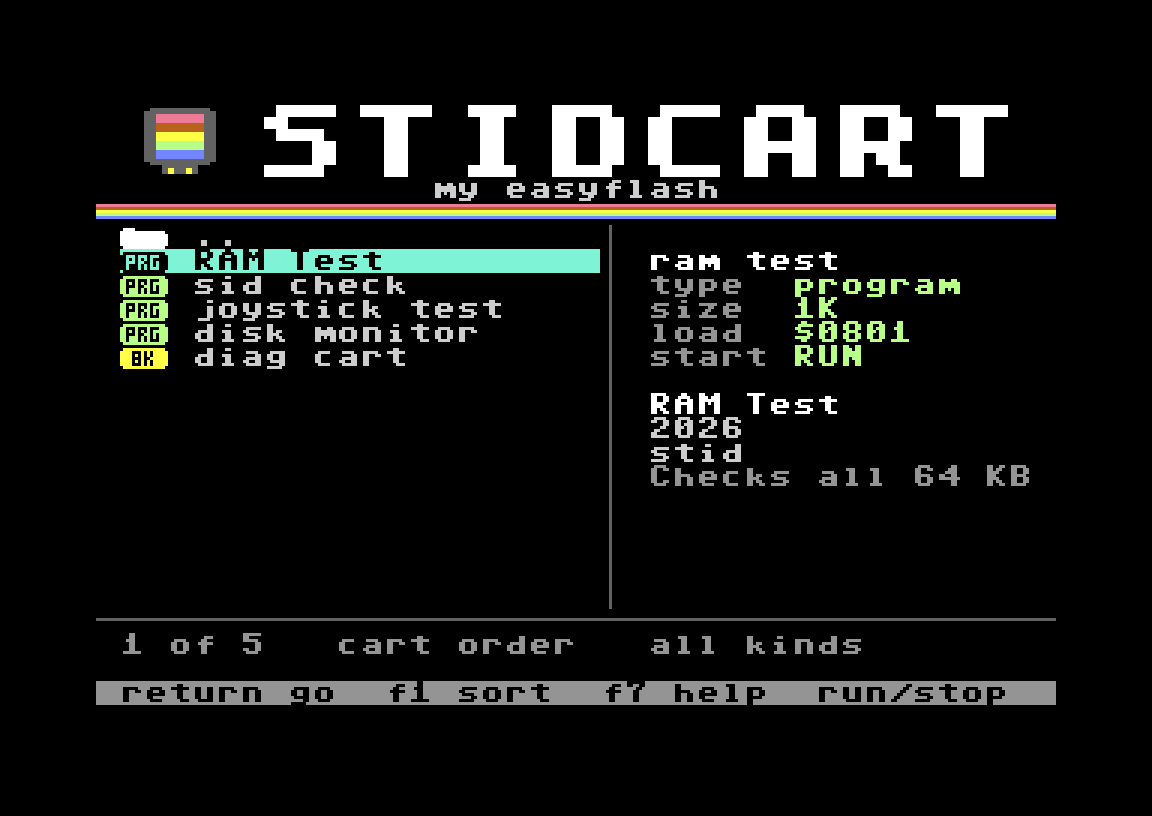
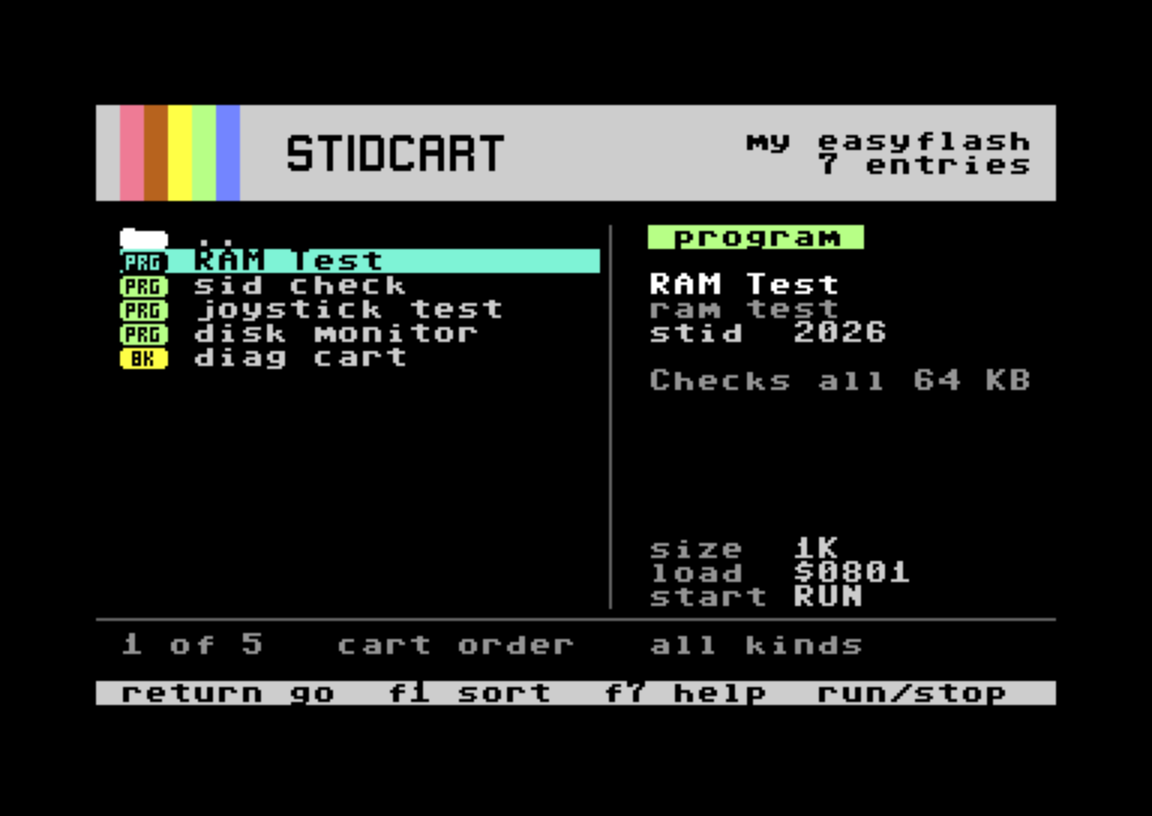
docs: the label in the guide, the menu README and SPEC; close menu-label
Claude-Session: https://claude.ai/code/session_01Hc37cV8Et6gAVUUH5CjV4g

diff --git a/crates/stidcart-cli/tests/menu_boot.rs b/crates/stidcart-cli/tests/menu_boot.rs
@@ -776,12 +776,12 @@ fn ac_101_filter_and_sort_combine() {
     assert_not_listed(&dumps[0], &["kiwi"], "F1, then an");
 }
 
-// --- the look: layout C (AC-104..AC-111, D-040, D-041) -----------------------------------------
+// --- the look (AC-104..AC-111, AC-210; D-040, D-041, D-069) ------------------------------------
 //
 // The menu draws from a RAM copy of the ROM's mixed-case set at $3800 that carries its own glyphs:
-// type badges, the rule, the scroll track and thumb, and the logo's quarter-block cells. Tests
-// find a glyph by its bitmap, so they hold the approved pixels (the "Stidcart Menu Layouts" mockup,
-// layout C) and never the code numbers. Colours are read from colour RAM and the VIC's registers,
+// type badges, the rule, the scroll track and thumb, and the wordmark's cells. Tests find a glyph
+// by its bitmap, so they hold the approved pixels (the "Stidcart Menu Layouts" mockup for the
+// badges, "Stidcart Menu Directions" for the wordmark) and never the code numbers. Colours are read from colour RAM and the VIC's registers,
 // low nybble only: VICE fills the high nybble from the bus.
 
 const COLOUR_RAM: (u16, u16) = (0xd800, 0xdbe7);

diff --git a/docs/lcd/SPEC.md b/docs/lcd/SPEC.md
@@ -103,7 +103,7 @@
 | Our menu starts a program whose bytes run into `$D000-$FFFF`: the part below `$D000` is copied as before, the rest by an 80-byte routine at `$0100-$014F` that reads each byte with `$01=$37` and writes it with `$01=$33`, so it lands in RAM under I/O and the KERNAL and the chips are not written; the NMI vector, `$01` and the bank are put back, then it starts by `RUN`, `SYS` or SHIFT+RETURN as any program. AC-127/AC-128 hold through it. Proven by VICE boots that read the RAM back with I/O and ROM banked out | AC-160..AC-162, AC-165 | D-056 (menu-highmem) |
 | Our menu reads the `STIDCART.META` entry once at boot, with interrupts masked, into `$4000-$7FFF` (interleaved or confined to either half; the last valid candidate wins; a missing, unknown-version, oversized or malformed one boots as a cart without metadata; records whose name doesn't match their slot are ignored). A titled entry shows its title in its row (cut to fit) and the title, year, author and note in the pane; A-Z sorts by what rows show. Grouped entries sit in folders: the top level lists a folder row per group with a visible entry (badge, name, count), in the cart's folder order, an empty folder showing no row, then the ungrouped entries; RETURN or fire opens one; DEL with no text or RUN/STOP goes back with it selected; filters, A-Z, paging, F5 and HOME/CLR act inside it, and row 23 counts the folder. Text typed at the top level lists matches from every folder flat, matching name or title. Resume reopens the entry's folder. Proven by VICE boots | AC-166..AC-169, AC-191 | D-057 (menu-folders) · D-063 (folder-browser) |
 | Inside a folder our menu lists a `..` row first, with the folder badge: RETURN or joystick fire on it goes back to the top level with the folder selected (DEL with no text and RUN/STOP still do). It stays first and listed through A-Z, a text filter matching nothing and the kind filter; HOME selects it, opening a folder selects the first entry. It is not an entry: the counts on rows 22-23 leave it out, F5 never picks it, the resume state never names it. Proven by VICE boots, fire through the emulated joystick | AC-170..AC-172 | D-058 (menu-folder-up) |
-| Our menu draws from a RAM copy of the ROM's mixed-case set at `$3800` carrying its own glyphs in codes `$60-$7F`, on a black screen: a white block-letter STIDCART logo from column 7 (rows 0-2) beside the cartridge mark in multicolour cells (columns 2-4, codes `$EA-$F2`: dark grey shell, yellow pins, a label of five three-line bands), the cart name (row 3), a raster strip of five one-scanline bands (light red, orange, yellow, light green, light blue; scanlines 84-88) across row 4, a dark grey rule (row 21), 16 list rows in columns 1-20 with a two-character badge per kind in its colour (PRG, 8K, 16K, ULT, XB) and the selection in a cyan reverse bar, a scroll bar in column 21 whose thumb shows the share and place of the view, a pane describing the selection (type, size in KB, load address or first bank, and `RUN`, `SYS` and its address, or `reset`), and a grey reverse key-help bar (row 24), empty cart included. The strip and the mark come from a raster interrupt that replaces the CIA timer's and stays steady while the list redraws; no bank is switched while it can run from the cart's ROM, and every way out puts the IRQ vector back at `$EA31` with the raster interrupt off. A cursor move that doesn't scroll redraws only its two rows. A program it starts, and BASIC after RUN/STOP, get the C64's own colours and upper-case set, and nothing it starts finds SHIFT+C= locked. Proven by VICE boots and screenshots | AC-104..AC-111, AC-123..AC-128 | D-040 (menu-look) · D-041 (menu-details) · D-048 (menu-raster) · D-059 (menu-cyan-bar) · stale: 2026-11-08 |
+| Our menu draws from a RAM copy of the ROM's mixed-case set at `$3800` carrying its own glyphs, on a black screen. Rows 0-3 are a label: reverse spaces in light grey, columns 1-5 in light red, orange, yellow, light green and light blue, a drawn STIDCART wordmark of 72 by 12 pixels in columns 8-16 of rows 1-2 (eighteen cells in codes `$EC-$FD`, ink as clear bits), the cart name ending at column 38 of row 1 and the count of visible entries ("1 entry" for one) at column 38 of row 2, all black on the label. Row 4 is blank and no raster line is recoloured. Below: 16 list rows in columns 1-20 with a two-character badge per kind in its colour (PRG, 8K, 16K, ULT, XB) and the selection in a cyan reverse bar, a scroll bar in column 21 whose thumb shows the share and place of the view, a dark grey rule (row 21), and a light grey reverse key-help bar (row 24) that the help screen keeps, empty cart included. The pane (columns 23-38) leads with a chip naming the kind in its colour (row 5), then from row 7 the title or name in white, the stored name in grey under a title, the author, two spaces and the year in light grey, a blank row and the note in grey; rows 18-20 hold the size in KB, the load address or first bank, and `RUN`, `SYS` and its address, or `reset`, labels grey and values light grey. A folder shows a white "folder" chip and its name. A raster interrupt replaces the CIA timer's as the menu's 50 Hz tick and draws nothing; no bank is switched while it can run from the cart's ROM, and every way out puts the IRQ vector back at `$EA31` with the raster interrupt off. A cursor move that doesn't scroll redraws only its two rows. A program it starts, and BASIC after RUN/STOP, get the C64's own colours and upper-case set, and nothing it starts finds SHIFT+C= locked. Proven by VICE boots and screenshots | AC-104..AC-107, AC-109..AC-111, AC-123, AC-127, AC-128, AC-207..AC-212 | D-040 (menu-look) · D-041 (menu-details) · D-048 (menu-raster) · D-059 (menu-cyan-bar) · D-069 (menu-label) |
 | The menu embedded in carts is exactly what `menu/build.sh` assembles from `menu/src/` and fits the 8 KiB loader slot; a check reassembles and compares | AC-93 | D-037 (custom-menu) |
 | The required CI gate builds the pinned 64tass and VICE and sets `STIDCART_REQUIRE_TOOLS=1`, so the boot and reassembly checks fail rather than skip when a tool is missing | AC-94 | D-038 (custom-menu) |
 

diff --git a/menu/README.md b/menu/README.md
@@ -21,25 +21,25 @@ in 16K mode at bank 0, with the KERNAL not initialised. The full contract is in
 - `src/menu.s` runs from ROM. It copies `src/launch.s` to the cartridge's I/O2 RAM at `$DF02` and
   initialises the KERNAL from there with the cartridge off, so the top of memory comes out right.
   It copies the ROM's mixed-case character set to `$3800` and adds the menu's own glyphs to it in
-  codes `$60-$7F`: the badges (with their inverses at `$E0` and up, for the selection bar), the rule,
-  the scroll bar, the logo's quarter-block cells and the folder badge (`$7D-$7E`). The cartridge
-  mark's nine multicolour cells go in `$EA-$F2`, reversed codes that names never reach. It then
+  codes `$60-$7F`: the badges and the folder badge (with their inverses at `$E0` and up, for the
+  selection bar), the rule and the scroll bar. The wordmark's eighteen cells go in `$EC-$FD`,
+  reversed codes that names never reach, stored with the ink as clear bits. It then
   scans the EasyFS2 directory at `$A000`, reads the metadata entry (below), turns the raster
   interrupt on, and draws straight into screen and colour RAM, writing each cell once per update. A
   cursor move that doesn't scroll redraws only the two rows it changes, and drawing starts below
   the visible screen, so nothing flickers. CHROUT isn't used: a full 40-column row links into the
   next line, and the last cell of row 24 scrolls the screen.
-- A raster interrupt draws the brand once a frame (D-048). From line 46 it turns multicolour on for
-  the logo rows, where only the mark's cells have colours 8-15, and rewrites `$D022` every three
-  lines so the mark's label shows the five bands. It turns multicolour off after row 2, then sets
-  the background for one line each on 84-88, the strip. It replaces the CIA timer's interrupt and
-  runs the KERNAL's own work (`$EA31`) itself, so the keyboard is scanned 50 times a second and
-  nothing can hold the bars up. Entered too late in a frame, it skips that frame's bars.
+- The label in rows 0-3 is reverse characters (D-069): light grey cells, one cell a row in each
+  band's colour, and the wordmark's cells. A reverse cell's ink is the background, so everything on
+  the label is black.
+- A raster interrupt is the menu's tick, once a frame at line 46 (D-048). It replaces the CIA
+  timer's interrupt and runs the KERNAL's own work (`$EA31`) itself, so the keyboard is scanned 50
+  times a second and the stick's repeat counts in frames. It draws nothing.
 - The interrupt handler runs from the cartridge's ROM. So interrupts are masked whenever the menu
   maps another bank in, and every way out (a program, a cartridge, RUN/STOP) first puts back the
   KERNAL's interrupt: raster interrupt off, `$0314` at `$EA31`, the CIA timer on. The boot tests
   watch every write to `$DE00` and `$DE02` for a live interrupt (AC-127), and read VICE
-  screenshots for what screen RAM can't show (AC-124..AC-126).
+  screenshots for the label's pixels (AC-207, AC-208).
 - Keys come from GETIN, the KERNAL keyboard buffer, which is where VICE injects keys for the boot
   tests. The stick is read in the menu's own loop, once a jiffy, never in the raster interrupt. Port
   A is read with every keyboard column high, so a key held in the matrix can't pull a stick line

diff --git a/docs/guide/menu.md b/docs/guide/menu.md
@@ -52,13 +52,15 @@ closed the help screen. Port 1 isn't read, because its lines are shared with the
 
 ## The screen
 
-- At the top are the cartridge mark, the stidcart logo and the cart's name.
+- At the top is a label, like the one on a cartridge: five colour bars, the stidcart wordmark, and
+  on the right the cart's name and how many entries it has (hidden ones aren't counted).
 - The list has 16 rows. Each entry has a badge for its kind: "PRG" for a program, "8K" and "16K"
   for those cartridges, "ULT" for Ultimax and "XB" for multi-bank. Hidden entries are not listed.
 - The selected entry sits in a cyan bar. When the list is longer than the screen, the divider to
   its right becomes a scroll bar.
-- The pane on the right describes the selection: its type, its size, its load address (a program)
-  or first bank (a cartridge), and how it starts.
+- The pane on the right describes the selection. A chip names its kind. Under it come the title
+  (or the name when it has none), the name under a title, the author and year, and the note. At the
+  foot are its size, its load address (a program) or first bank (a cartridge), and how it starts.
 - Under the list are the position ("17 of 40"), the order in use and the kind listed. Then comes
   the filter text, in yellow, with how many entries match. The last line names the main keys.
 
@@ -70,7 +72,7 @@ back from a reset (see the last section).
 A move that leaves the view (CRSR, a page, HOME/CLR, F5) scrolls only as far as it takes to show the
 selection, so one page down from the top puts it on the last row. F5 mixes the CIA timer, the raster
 line and the jiffy clock, which differ at every key press a person makes. The help screen keeps the
-logo and the cart name and replaces everything under it; the key that ends it, RUN/STOP and RETURN included,
+label and replaces everything under it; the key that ends it, RUN/STOP and RETURN included,
 does nothing else.
 
 A program that loads at or below `$0801` is started with `RUN`, and any other with `SYS` to its load
@@ -98,10 +100,10 @@ hidden entry, `STIDCART.META`, which the menu reads once at boot.
 
 - An entry with a title shows the title in its row instead of its name, cut to the row's 16
   characters. A-Z sorts by what the rows show.
-- The pane shows the name, then the type, size and start facts on consecutive rows, then
-  the title in full, the year, the author and the note. Each starts on a row of its own and wraps
-  every 16 characters, so all of them fit at their longest. An entry with no title, year, author
-  or note keeps the usual pane.
+- The pane shows the title in full, the entry's name under it, the author and year on one line,
+  and after a blank row the note. Each wraps every 16 characters, and all of them fit at their
+  longest above the size, load address and start at the foot. An entry with no title shows its
+  name where the title would be.
 - The top level lists one row per folder that has a visible entry, with a folder badge, the
   folder's name and its number of entries, then the entries in no folder. An empty folder isn't
   listed. RETURN or

diff --git a/.claude/rules/lcd-conventions.md b/.claude/rules/lcd-conventions.md
@@ -64,7 +64,7 @@ maintenance-bundle: cargo fmt --all --check && cargo clippy --workspace --all-ta
 - **Therefore: number a new work-item's ACs from the next free id, not from AC-1.** The tokens in
   use are `AC-1..AC-12 (none)` and `AC-1..AC-5 (CLI)`, plus `AC-13..AC-16 (…)` taken by
   `easyfs1-refusal`, plus `AC-17..AC-30` taken by `cart-edit`, plus `AC-31..AC-46` taken by
-  `cart-entries`, plus `AC-47..AC-50` taken by `subdir-entries`, plus `AC-51..AC-58` taken by `gui-shell`, plus `AC-59..AC-80` taken by `gui-edit`, plus `AC-81..AC-95` taken by `custom-menu`, plus `AC-96..AC-101` taken by `menu-search-sort`, plus `AC-102..AC-104` taken by `menu-look`, plus `AC-105..AC-111` taken by `menu-details`, plus `AC-112..AC-114` taken by `menu-picker`, plus `AC-115..AC-118` taken by `readable-sizes`, plus `AC-119..AC-122` taken by `raster-brand`, plus `AC-123..AC-128` taken by `menu-raster`, plus `AC-129..AC-131` taken by `older-menus`, plus `AC-132..AC-135` taken by `replace-loader`, plus `AC-136..AC-141` taken by `menu-keys`, plus `AC-142..AC-146` taken by `menu-joystick`, plus `AC-147..AC-152` taken by `menu-resume`, plus `AC-153..AC-159` taken by `menu-meta`, plus `AC-160..AC-165` taken by `menu-highmem`, plus `AC-166..AC-169` taken by `menu-folders`, plus `AC-170..AC-172` taken by `menu-folder-up`, plus `AC-173..AC-184` taken by `folder-editor`, plus `AC-185..AC-196` taken by `folder-browser`, plus `AC-197..AC-199` taken by `default-stidcart-menu`, plus `AC-200..AC-206` taken by `hex-viewer`. **Next free: AC-207.** Bump this line
+  `cart-entries`, plus `AC-47..AC-50` taken by `subdir-entries`, plus `AC-51..AC-58` taken by `gui-shell`, plus `AC-59..AC-80` taken by `gui-edit`, plus `AC-81..AC-95` taken by `custom-menu`, plus `AC-96..AC-101` taken by `menu-search-sort`, plus `AC-102..AC-104` taken by `menu-look`, plus `AC-105..AC-111` taken by `menu-details`, plus `AC-112..AC-114` taken by `menu-picker`, plus `AC-115..AC-118` taken by `readable-sizes`, plus `AC-119..AC-122` taken by `raster-brand`, plus `AC-123..AC-128` taken by `menu-raster`, plus `AC-129..AC-131` taken by `older-menus`, plus `AC-132..AC-135` taken by `replace-loader`, plus `AC-136..AC-141` taken by `menu-keys`, plus `AC-142..AC-146` taken by `menu-joystick`, plus `AC-147..AC-152` taken by `menu-resume`, plus `AC-153..AC-159` taken by `menu-meta`, plus `AC-160..AC-165` taken by `menu-highmem`, plus `AC-166..AC-169` taken by `menu-folders`, plus `AC-170..AC-172` taken by `menu-folder-up`, plus `AC-173..AC-184` taken by `folder-editor`, plus `AC-185..AC-196` taken by `folder-browser`, plus `AC-197..AC-199` taken by `default-stidcart-menu`, plus `AC-200..AC-206` taken by `hex-viewer`, plus `AC-207..AC-212` taken by `menu-label`. **Next free: AC-213.** Bump this line
   when a work-item claims a range. Renaming
   the orphans instead would be a sweep across six files for no behaviour change — rename them only
   if you are already editing the file.

diff --git a/docs/lcd/work/menu-label/JOURNAL.md b/docs/lcd/work/menu-label/JOURNAL.md
@@ -4,14 +4,14 @@
 ## NOW
 - **Lane:** Standard
 - **Goal:** Our C64 menu wears direction B, "Label": a light grey label slab with band bars and a drawn wordmark in rows 0-3, and a pane that leads with the kind, title and note.
-- **Next action:** S3: write the failing pane tests (AC-210, AC-211), then rewrite `draw_pane`
-- **Branch:** feat/menu-label  ·  **Updated:** 2026-11-14 00:10
+- **Next action:** done; PR open, waiting for the user's look in VICE and review
+- **Branch:** feat/menu-label  ·  **Updated:** 2026-11-14 00:50
 
 ## STEPS
 - [x] S1 — journal, D-069
 - [x] S2 — header and key bar: AC-207..AC-209, AC-212; AC-124..AC-126 retired with the mark and strip; interrupt reduced to the tick; 4595d86's fingerprint listed
-- [ ] S3 — pane: tests AC-210, AC-211 (AC-108, AC-166, AC-170 rewritten), then `draw_pane`  ← next
-- [ ] S4 — VICE capture for the user, `docs/guide/menu.md` + image, `menu/README.md`, conventions AC line, reconcile SPEC, gate, PR
+- [x] S3 — pane: AC-210 (replaces AC-108), AC-211; AC-166 and AC-170 follow the new order
+- [x] S4 — VICE capture, guide and image, menu README, AC range, SPEC row, both gates, PR
 
 ## DECISIONS (this work-item)
 - D-069: the label replaces the block logo, the mark and the strip; the raster interrupt stays as the 50 Hz tick only.
@@ -57,3 +57,5 @@
 
 - 2026-11-13 23:40 — triaged Standard. User picked B from the "Stidcart Menu Directions" page. → D-069
 - 2026-11-14 00:10 — S2 done: header, key bar and their tests green in VICE; 1,693 bytes free in the slot (1,484 before).
+- 2026-11-14 00:50 — S3, S4 done. Root gate green with STIDCART_REQUIRE_TOOLS=1, GUI gate green. 1,499 bytes free in the slot. `ac_169_the_metadata_entry_is_checked_before_use` failed once in four full runs ("no bank or mode write was seen") and passed alone and in the other three; cause not looked into, hypothesis: the monitor log under load.
+- 2026-11-14 00:50 — closeout: audit PASS (test-presence), SPEC row folded by hand as reconcile prescribes.

diff --git a/docs/lcd/triage-log.md b/docs/lcd/triage-log.md
@@ -69,3 +69,4 @@
 2026-11-13 · hex-viewer · 3 signals · Standard · hard:no · risk:no
 2026-11-13 · hex-viewer · closeout · Standard · audit: PASS (test-presence) · re-routes: 0 · interventions: 0
 2026-11-13 · menu-label · 3 signals · Standard · hard:no · risk:no
+2026-11-13 · menu-label · closeout · Standard · audit: PASS (test-presence) · re-routes: 0 · interventions: 0
